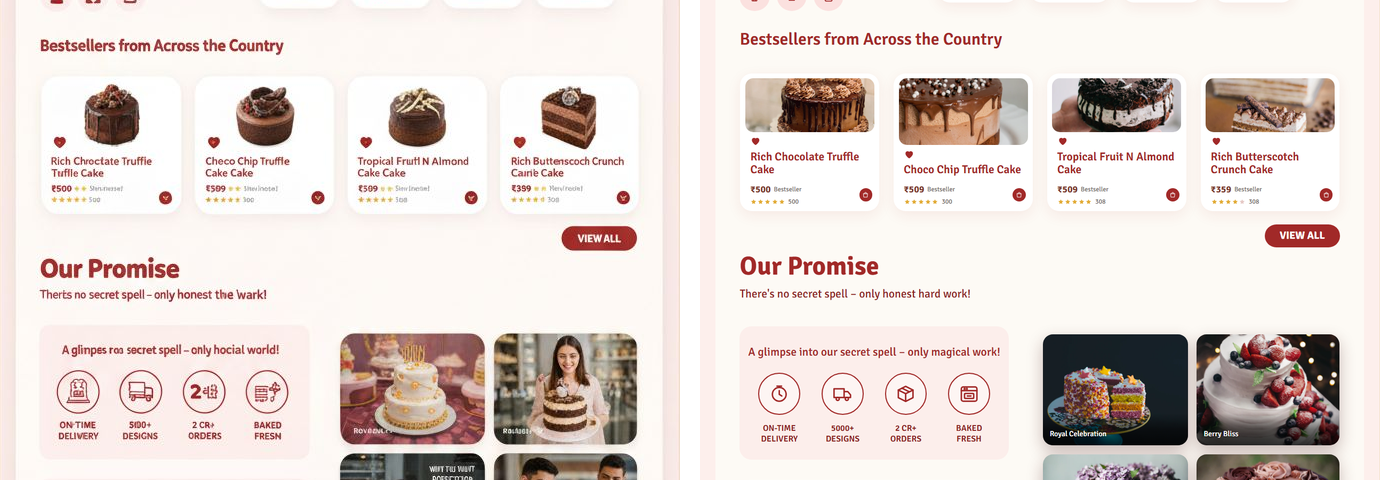
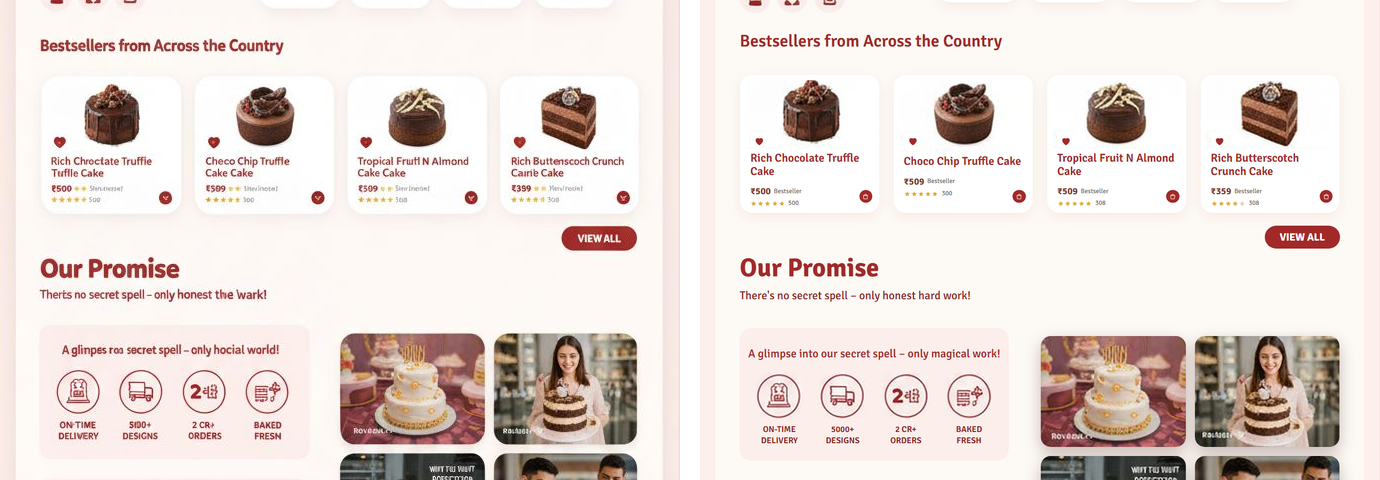
docs(ux): enmienda del contrato con imágenes del mockup y nueva verificación

diff --git a/docs/ux/anexos/2026-10-14-caso2.md b/docs/ux/anexos/2026-10-14-caso2.md
@@ -7,7 +7,9 @@ Fecha: 2026-10-14 · Stack: NestJS 11 (Handlebars) + Tailwind CSS 4
 El contrato de diseño es el mockup `../Caso2.jpg` (copia en `docs/ux/Caso2.jpg`) (768 × 1344 px). No se propusieron
 direcciones alternativas: el encargo es replicarlo. Acordado con el cliente:
 
-- Fotos en alta resolución (no recortes del JPG).
+- ~~Fotos en alta resolución de Unsplash.~~ **Enmienda 2026-10-14 (pedida por el cliente):** todas las imágenes
+  —pasteles del hero y de bestsellers, galería, avatares, ticket, iconos de categorías, círculos de promesa
+  y del menú— salen recortadas del propio mockup para que quede idéntico. Ver `scripts/extract-mockup-assets.py`.
 - Ortografía corregida; la estructura y la copia, intactas.
 - El formulario de correo es solo maqueta: no envía nada, así que no lleva textos legales.
 
@@ -45,21 +47,27 @@ Candallution → Cancellation · Privery Pofoy → Privacy Policy · Temm And Gi
 Custorm Brekeane → Corporate Enquiries · Cognors → Coupons · Dewnload → Download.
 Se mantienen como en el mockup: «Occasions» y «More Info», que aparecen dos veces.
 
+## Imágenes del mockup
+
+`python scripts/extract-mockup-assets.py` recorta 30 piezas de `docs/ux/Caso2.jpg` con coordenadas medidas
+por detección de bordes, las amplía ×4 (Lanczos + enfoque suave) y las deja en `public/img/mockup/`.
+En las fotos de producto se tapa el corazón del mockup, que la página dibuja en HTML.
+
 ## Desviaciones conocidas
 
-- Fotos de Unsplash parecidas, no idénticas. La galería muestra tartas en lugar de personas con tartas.
-- Los productos van como foto recortada en rectángulo redondeado; en el mockup son recortes sobre blanco.
-- Las leyendas de la galería eran ilegibles en el mockup: se escribieron nuevas.
+- Resolución: el mockup mide 768 px, así que cada recorte tiene unos 40–190 px de origen. A 1440 px se ven
+  algo suaves; es el precio de ser idénticas al mockup.
+- Las fotos de la galería traen incrustados los rótulos ilegibles del mockup (no se pueden corregir sin
+  retocar la foto). Se quitaron las leyendas HTML que se les superponían.
+- Los iconos de categoría y de promesa son ahora recortes rasterizados, no SVG.
 
 ## Verificación (Playwright, ejecutada)
 
 - 390 / 768 / 1440 px: sin scroll horizontal, consola limpia y sin peticiones fallidas.
-- Superposición a 1440 px (escalada a 680 px): alto del render 1315 px frente a 1308 del mockup (+0,5 %).
+- Superposición a 1440 px (escalada a 680 px): alto del render 1319 px frente a 1308 del mockup (+0,8 %).
   Secciones alineadas a ±3 px. Capturas en `capturas/comparacion-*.png`.
 - Contraste medido sobre estilos computados: el mínimo del texto es 5,49 (ink-soft sobre paper).
   La primera medición falló (4,29): se oscureció ink-soft.
-- Leyendas sobre foto, muestreadas en el render: peor caso 5,54. La primera medición falló (≈3):
-  se reforzó el velo oscuro.
 - Teclado: el orden de foco sigue el de lectura. El buscador no mostraba foco; se corrigió con `focus-within`.
 - Pendiente / compromiso: en escritorio, los controles miden lo que miden en el mockup
   (32 elementos por debajo de 44 px). En móvil, botones e iconos táctiles miden 44 px;
